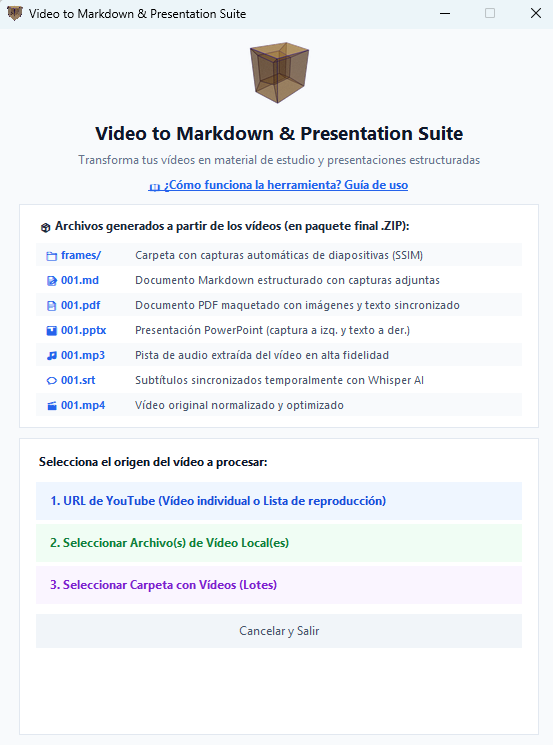
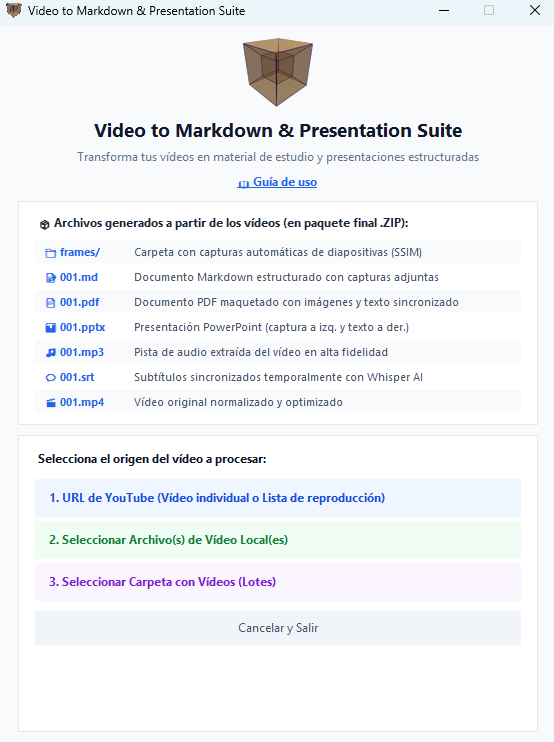
docs: normalize numbering, fix links, and add bilingual user guide

diff --git a/documentation/004_user_guide_en.md b/documentation/004_user_guide_en.md
@@ -1,0 +1,128 @@
+# User Guide: Video to Markdown & Presentation Suite
+
+> **Language / Idioma:** [ 🇬🇧 English ](./004_user_guide_en.md) | [ 🇪🇸 Español ](./004_user_guide.md)
+
+## Index
+
+1. [Starting the Application](#1-starting-the-application)
+2. [Option 1: Process YouTube URL](#2-option-1-process-youtube-url)
+3. [Option 2: Process Local Video File(s)](#3-option-2-process-local-video-files)
+4. [Option 3: Process Full Video Folder](#4-option-3-process-full-video-folder)
+5. [Destination Folder Selection & Execution](#5-destination-folder-selection--execution)
+6. [Output Package Contents](#6-output-package-contents)
+7. [Next steps](#7-next-steps)
+
+---
+
+## 1 Starting the Application
+
+- ***Instruction***: Launch the desktop suite from the compiled executable or via Python.
+    - Executable: Run [dist/VideoToMarkdownConverter/VideoToMarkdownConverter.exe](../dist/VideoToMarkdownConverter/VideoToMarkdownConverter.exe).
+    - Script: Run `python main.py` from the project root.
+- ***Built-in Help***: Click the bottom **📖 Guía de uso** button in the main menu window to open this guide at any time.
+- ***Visuals***:
+    ![Main Menu](./img/main_menu.png)
+- ***File References***:
+    - Entry point: [main.py](../main.py)
+    - Graphical selector: [src/ui_selector.py](../src/ui_selector.py)
+
+[←Index](#index)
+
+---
+
+## 2 Option 1: Process YouTube URL
+
+- ***Instruction***: Click **1. URL de YouTube (Vídeo individual o Lista de reproducción)**.
+- ***Steps***:
+    1. Paste or type the video or playlist link into the text box.
+    2. Right-click to access the context menu (**Paste**, **Copy**, **Cut**, **Select All**).
+    3. Click **Continuar** (or press the `Enter` key).
+    4. If the link belongs to a playlist, choose whether to download the entire playlist or only the selected video.
+- ***Visuals***:
+    ![YouTube URL Dialog](./img/youtube_dialog.png)
+- ***File References***:
+    - yt-dlp download manager: [src/input_handler.py](../src/input_handler.py)
+
+[←Index](#index)
+
+---
+
+## 3 Option 2: Process Local Video File(s)
+
+- ***Instruction***: Click **2. Seleccionar Archivo(s) de Vídeo Local(es)**.
+- ***Steps***:
+    1. Navigate to your video files in Windows Explorer.
+    2. Select one or multiple videos simultaneously by holding `Ctrl` or `Shift`.
+    3. Supported formats: `.mp4`, `.mkv`, `.avi`, `.mov`, `.webm`.
+    4. Click **Open**.
+- ***File References***:
+    - FFmpeg format normalizer: [src/converter.py](../src/converter.py)
+
+[←Index](#index)
+
+---
+
+## 4 Option 3: Process Full Video Folder
+
+- ***Instruction***: Click **3. Seleccionar Carpeta con Vídeos (Lotes)**.
+- ***Steps***:
+    1. Select the folder containing your video recordings or course lectures.
+    2. Click **Select Folder**.
+    3. The application scans the folder recursively and batch-processes all supported videos sequentially.
+- ***File References***:
+    - Input scanner: [src/input_handler.py](../src/input_handler.py)
+
+[←Index](#index)
+
+---
+
+## 5 Destination Folder Selection & Execution
+
+- ***Instruction***: Choose the output folder and monitor conversion progress.
+- ***Steps***:
+    1. Select the destination folder for the generated `.zip` packages.
+    2. The **Progress Window** runs the sequential pipeline in the background:
+       - MP3 audio extraction.
+       - Synchronized Whisper AI transcription.
+       - Computer vision slide detection (SSIM).
+       - Markdown notes, PDF compilation, and PowerPoint generation.
+       - ZIP packaging and temporary file cleanup.
+    3. When finished, the floating modal **¡Tarea Completada!** appears with buttons to **📂 Abrir Carpeta de Resultados** (Open Output Folder) or **Salir de la Aplicación** (Exit).
+- ***Visuals***:
+    ![Completion Modal](./img/completion_modal.png)
+- ***File References***:
+    - Progress and modal dialogs: [src/progress_window.py](../src/progress_window.py)
+
+[←Index](#index)
+
+---
+
+## 6 Output Package Contents
+
+- ***Instruction***: Unzip the generated `.zip` archive to access your study materials.
+- ***Visuals***:
+    ![Package Structure](./img/package_contents.png)
+- ***Generated Files***:
+    - `frames/`: Folder containing all extracted slide screenshots.
+    - `001.md`: Formatted Markdown notes with embedded slide frames.
+    - `001.pdf`: Styled standalone PDF document with embedded images.
+    - `001.pptx`: 16:9 widescreen PowerPoint deck (slides on left, transcript notes on right).
+    - `001.mp3`: Extracted audio track from the original video.
+    - `001.srt`: Subtitle file with synchronized timestamps.
+    - `001.mp4`: Standard normalized video file.
+- ***File References***:
+    - ZIP packager: [src/packager.py](../src/packager.py)
+    - Markdown generator: [src/markdown_gen.py](../src/markdown_gen.py)
+    - PDF generator: [src/pdf_gen.py](../src/pdf_gen.py)
+    - PowerPoint generator: [src/ppt_gen.py](../src/ppt_gen.py)
+
+[←Index](#index)
+
+---
+
+## 7 Next steps
+
+- [001_overview.md](./001_overview.md)
+- [002_architecture.md](./002_architecture.md)
+- [003_build_and_distribution.md](./003_build_and_distribution.md)
+- [README.md](../README.md)

diff --git a/README.md b/README.md
@@ -53,11 +53,23 @@ This bundles PyTorch, Whisper AI, FFmpeg, and the modern UI into `dist/VideoToMa
 
 ---
 
+## 📦 Sharing with End Users & Friends
+
+To distribute the application to testers or friends without requiring Python installed:
+1. Locate the compiled output directory: `dist/VideoToMarkdownConverter/`
+2. Compress the entire `VideoToMarkdownConverter` folder into a `.zip` archive.
+3. Share the `.zip` file.
+4. Recipients extract the folder and double-click `VideoToMarkdownConverter.exe`.
+*(Note: Never separate `VideoToMarkdownConverter.exe` from its adjacent `_internal/` dependency folder).*
+
+---
+
 ## 📚 Documentation
 
-For in-depth architectural and development documentation, see the `documentation/` folder:
+For in-depth architectural and development documentation, see the [documentation/](./documentation/) directory:
 - [000_run_app.md](./documentation/000_run_app.md) - Quick start and installation scripts.
 - [001_overview.md](./documentation/001_overview.md) - System overview, requirements, and execution guide.
 - [002_architecture.md](./documentation/002_architecture.md) - Pipeline data flow and core module breakdown.
-- [03_build_and_distribution.md](./documentation/03_build_and_distribution.md) - Standalone compilation and distribution guide.
-- [004_user_guide.md](./documentation/004_user_guide.md) - **Complete User Guide for all 3 input methods**.
+- [003_build_and_distribution.md](./documentation/003_build_and_distribution.md) - Standalone compilation and distribution guide.
+- [004_user_guide.md](./documentation/004_user_guide.md) - 🇪🇸 **Guía de usuario completa**.
+- [004_user_guide_en.md](./documentation/004_user_guide_en.md) - 🇬🇧 **Complete End-User Guide**.

diff --git a/documentation/004_user_guide.md b/documentation/004_user_guide.md
@@ -1,5 +1,7 @@
 # Guía de Uso: Video to Markdown & Presentation Suite
 
+> **Idioma / Language:** [ 🇪🇸 Español ](./004_user_guide.md) | [ 🇬🇧 English ](./004_user_guide_en.md)
+
 ## Index
 
 1. [Inicio de la aplicación](#1-inicio-de-la-aplicacion)
@@ -15,8 +17,9 @@
 ## 1 Inicio de la aplicación
 
 - ***Instruction***: Ejecuta la suite de escritorio desde el ejecutable compilado o mediante Python.
-    - Ejecutable: Abre `dist/VideoToMarkdownConverter/VideoToMarkdownConverter.exe`.
+    - Ejecutable: Abre [dist/VideoToMarkdownConverter/VideoToMarkdownConverter.exe](../dist/VideoToMarkdownConverter/VideoToMarkdownConverter.exe).
     - Script: Ejecuta `python main.py` desde la raíz del proyecto.
+- ***Ayuda integrada***: Pulsa el botón inferior **📖 Guía de uso** en la ventana principal para abrir esta documentación en cualquier momento.
 - ***Visuals***:
     ![Menú Principal](./img/main_menu.png)
 - ***File References***:
@@ -119,8 +122,7 @@
 
 ## 7 Siguientes pasos
 
-- Consultar la arquitectura del sistema: [002_architecture.md](./002_architecture.md)
-- Compilación y distribución del ejecutable Windows: [03_build_and_distribution.md](./03_build_and_distribution.md)
-- Portal principal del repositorio: [README.md](../README.md)
-
-[←Index](#index)
+- [001_overview.md](./001_overview.md)
+- [002_architecture.md](./002_architecture.md)
+- [003_build_and_distribution.md](./003_build_and_distribution.md)
+- [README.md](../README.md)

diff --git a/documentation/001_overview.md b/documentation/001_overview.md
@@ -68,5 +68,6 @@
 
 ## 5 Next steps
 
-- [02_architecture.md](./02_architecture.md)
-- [03_build_and_distribution.md](./03_build_and_distribution.md)
+- [002_architecture.md](./002_architecture.md)
+- [003_build_and_distribution.md](./003_build_and_distribution.md)
+- [004_user_guide.md](./004_user_guide.md)

diff --git a/documentation/002_architecture.md b/documentation/002_architecture.md
@@ -51,5 +51,6 @@
 
 ## 3 Next steps
 
-- [01_overview.md](./01_overview.md)
-- [03_build_and_distribution.md](./03_build_and_distribution.md)
+- [001_overview.md](./001_overview.md)
+- [003_build_and_distribution.md](./003_build_and_distribution.md)
+- [004_user_guide.md](./004_user_guide.md)

diff --git a/documentation/003_build_and_distribution.md b/documentation/003_build_and_distribution.md
@@ -48,5 +48,6 @@
 
 ## 4 Next steps
 
-- [01_overview.md](./01_overview.md)
-- [02_architecture.md](./02_architecture.md)
+- [001_overview.md](./001_overview.md)
+- [002_architecture.md](./002_architecture.md)
+- [004_user_guide.md](./004_user_guide.md)

diff --git a/documentation/000_run_app.md b/documentation/000_run_app.md
@@ -62,4 +62,4 @@
 
 ## 4 Next steps
 
-- [01_overview.md](./01_overview.md)
+- [001_overview.md](./001_overview.md)
